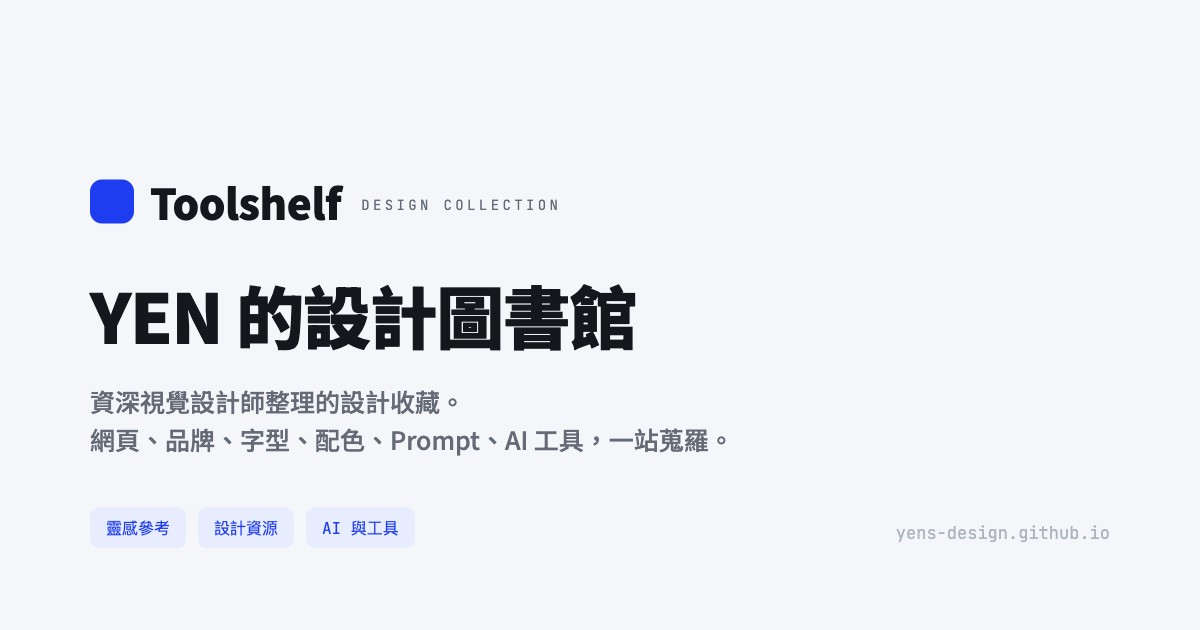
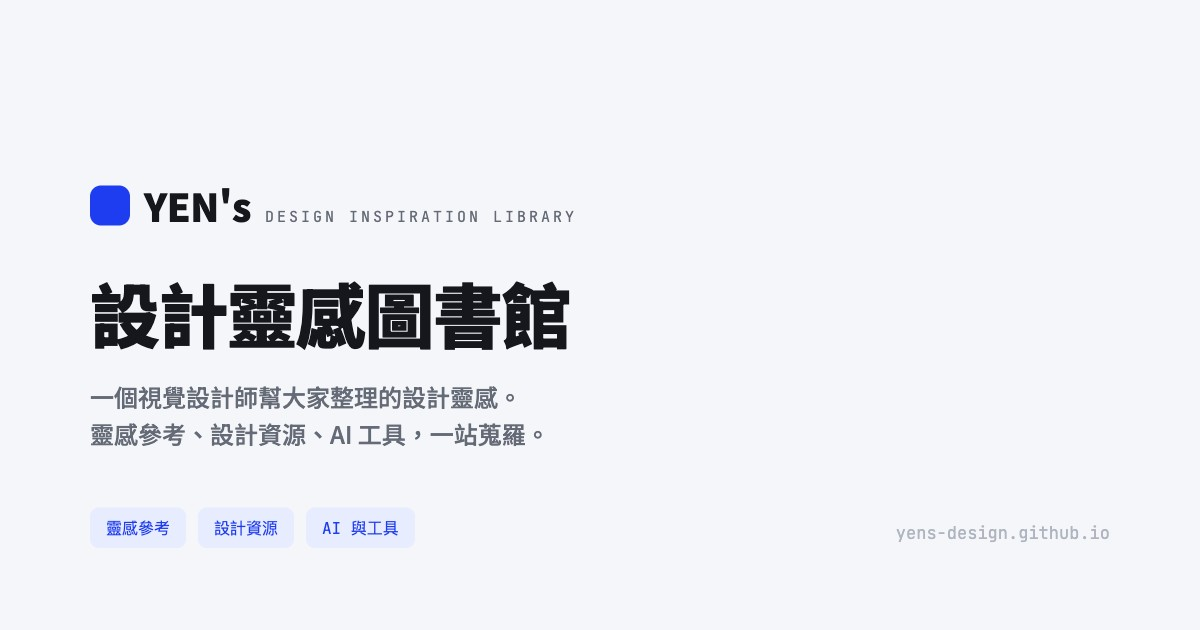
分享預覽同步：標題/說明改 Design Inspiration Library、重做分享卡

Changed region(s): [[0.0617, 0.4524, 0.555, 0.573], [0.0617, 0.6032, 0.6167, 0.7238], [0.0617, 0.2714, 0.4933, 0.3619]]

diff --git a/index.html b/index.html
@@ -3,18 +3,18 @@
 <head>
 <meta charset="UTF-8">
 <meta name="viewport" content="width=device-width, initial-scale=1.0">
-<title>YEN的設計圖書館</title>
-<meta name="description" content="資深視覺設計師整理的設計收藏，網頁、品牌、字型、配色、Prompt、AI 工具一站蒐羅。">
+<title>YEN's Design Inspiration Library</title>
+<meta name="description" content="一個視覺設計師幫大家整理的設計靈感。靈感參考、設計資源、AI 工具，一站蒐羅。">
 <meta property="og:type" content="website">
 <meta property="og:url" content="https://yens-design.github.io/">
-<meta property="og:title" content="YEN的設計圖書館">
-<meta property="og:description" content="資深視覺設計師整理的設計收藏，網頁、品牌、字型、配色、Prompt、AI 工具一站蒐羅。">
+<meta property="og:title" content="YEN's Design Inspiration Library">
+<meta property="og:description" content="一個視覺設計師幫大家整理的設計靈感。靈感參考、設計資源、AI 工具，一站蒐羅。">
 <meta property="og:image" content="https://yens-design.github.io/og.jpg">
 <meta property="og:image:width" content="1200">
 <meta property="og:image:height" content="630">
 <meta name="twitter:card" content="summary_large_image">
-<meta name="twitter:title" content="YEN的設計圖書館">
-<meta name="twitter:description" content="資深視覺設計師整理的設計收藏，網頁、品牌、字型、配色、Prompt、AI 工具一站蒐羅。">
+<meta name="twitter:title" content="YEN's Design Inspiration Library">
+<meta name="twitter:description" content="一個視覺設計師幫大家整理的設計靈感。靈感參考、設計資源、AI 工具，一站蒐羅。">
 <meta name="twitter:image" content="https://yens-design.github.io/og.jpg">
 <link rel="preconnect" href="https://fonts.googleapis.com">
 <link rel="preconnect" href="https://fonts.gstatic.com" crossorigin>